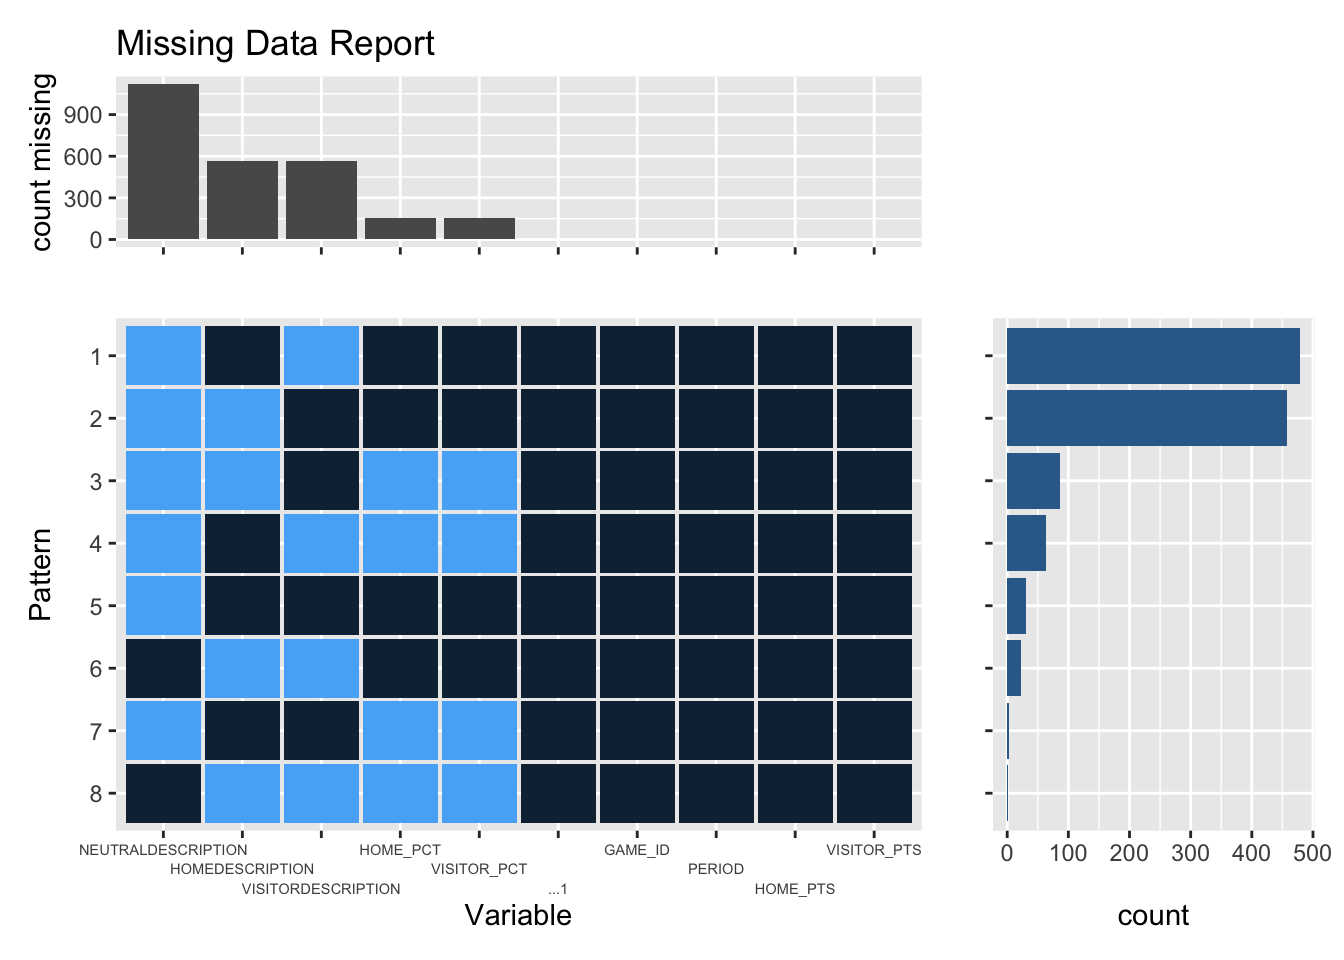
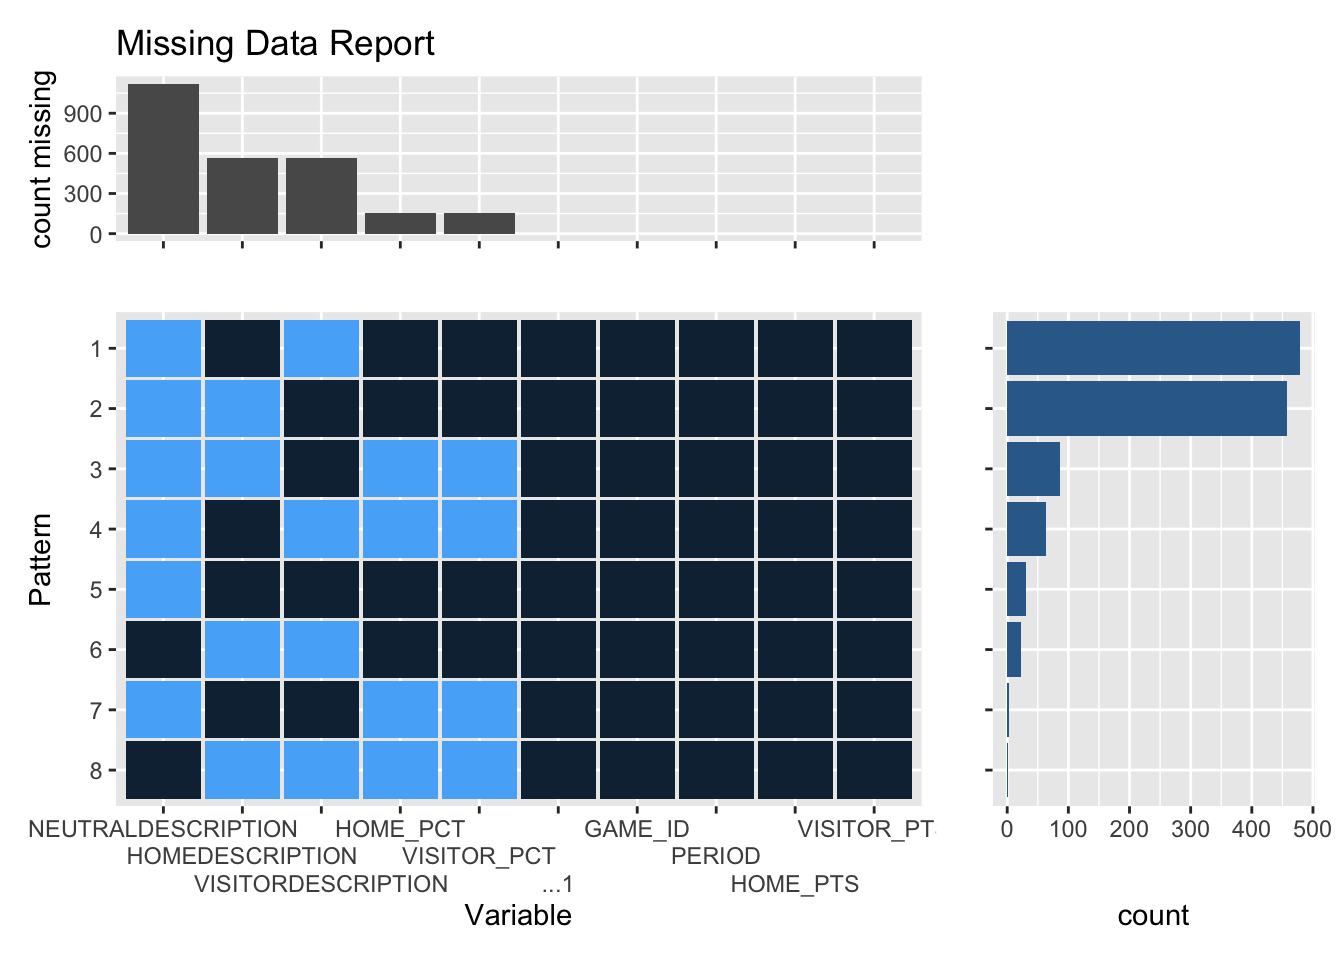
Revert "fix labels size"
This reverts commit dc1f75b1982717fd5dc09ce606320d5ce8a68b77.

diff --git a/README.md b/README.md
@@ -1,13 +1,5 @@
 This is a template for the EDAV final project. It is based on the template created with *File, New Project..., New Directory, Book Project using bookdown* in RStudio. 
 
-## Team Expectations (Nov. 18 2021)
-Work plan:
-
-Blake has done a lot of the work of cleaning the current dataset we are working with. Our main task thus far has been to align the win probability data with the play-by-play description data. Given the gaps in our dataset, this task has been somewhat difficult and time consuming. 
-
-Elijah will continue on Blakes work by building a classification system, which looks at the strings of the play-by-play data and assigning each row to a specific factor variable, which will guide us in our main research question. Elijah will also filter our larger dataset of games to select only the ones that end in a ‘choke’, in which one team that had a high chance of winning ended up losing the game.  
-
-Once we have the data in this correct form, we will work together on creative solutions to visualize our findings and conduct further analysis. 
 
 ## ABSOLUTE ESSENTIALS
 
